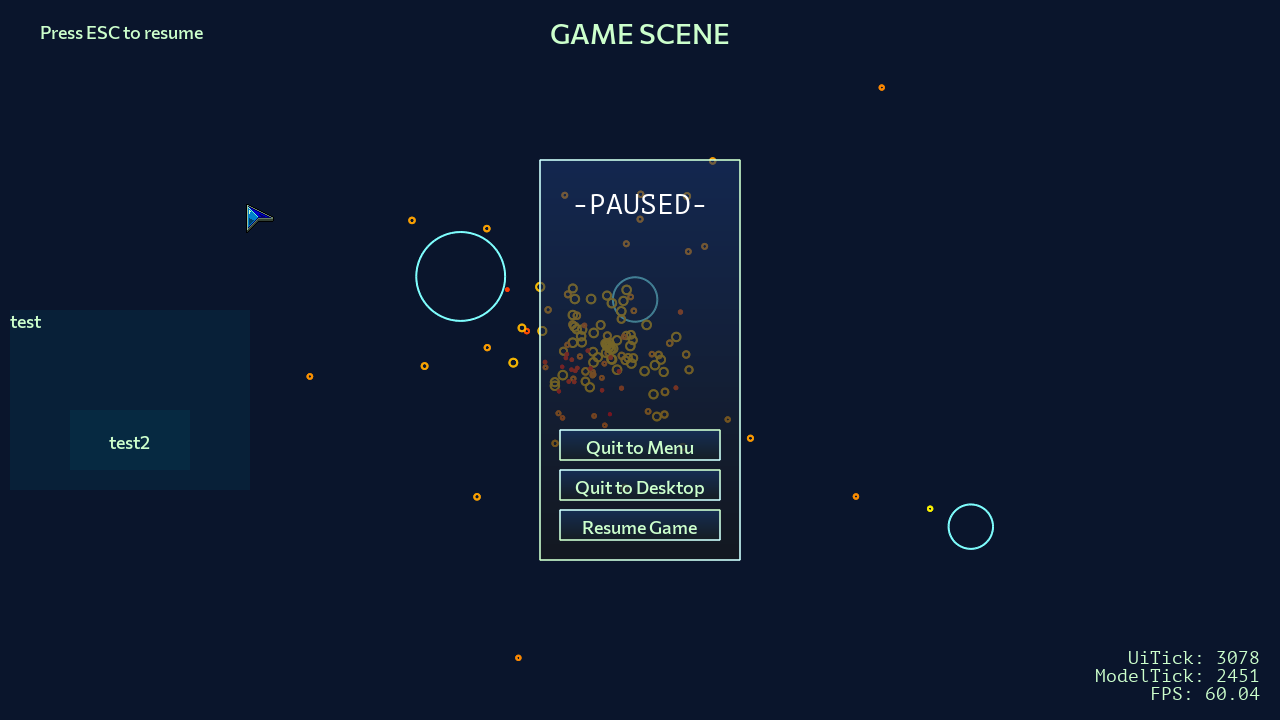
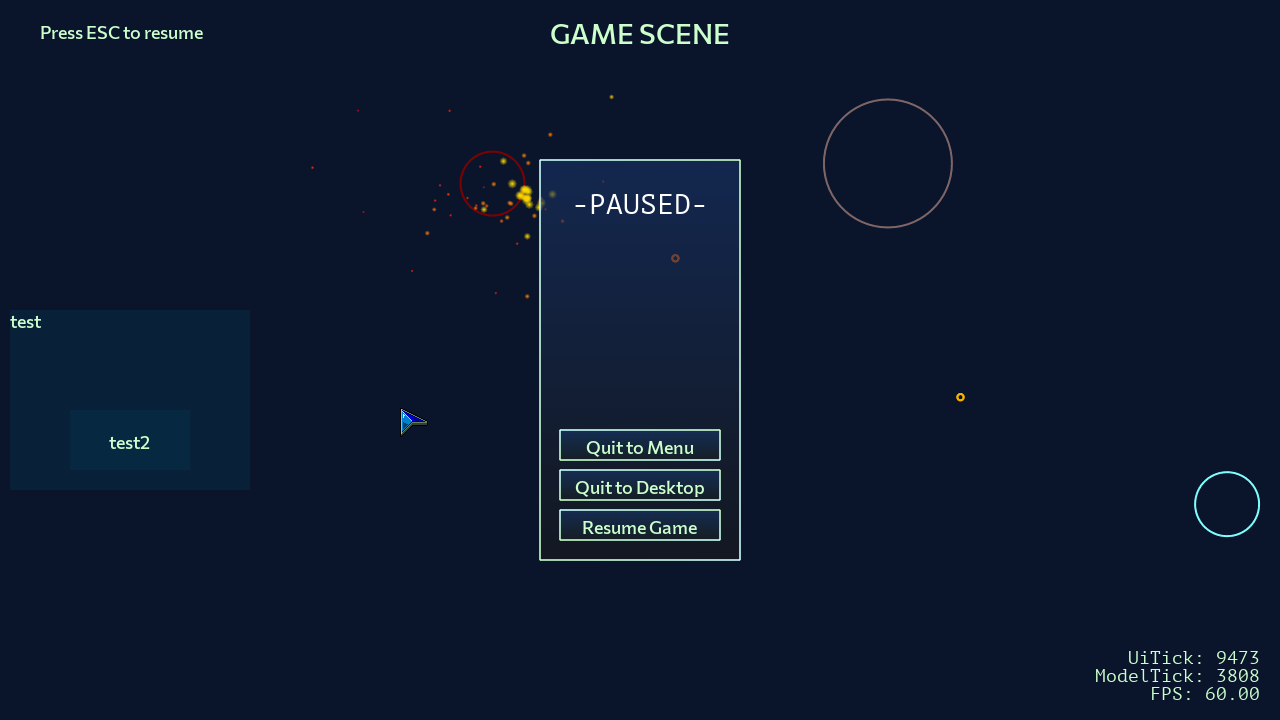
Change particle sprite

diff --git a/src/ui/SpriteLoad.cpp b/src/ui/SpriteLoad.cpp
@@ -18,8 +18,6 @@ bool SpriteManager::loadData() {
     if (!loadTexturedSprite(SPRITE_ID_TEX3, "data/textures/bit.tga")) return false;
     if (!loadTexturedSprite(SPRITE_ID_TEX4, "data/textures/awesomeface.png")) return false;
 
-    if (!loadTexturedSprite(SPRITE_ID_CURSOR, "data/textures/cursor.tga")) return false;
-
     {   GLcolorRGBA colors[] = { {1,1,1,.2f}, {1,1,1,.2f}, {1,1,1,.2f}, {1,1,1,.2f} };
         if (!loadGeometricSprite(SPRITE_ID_WIDGET_BG_DEBUG,
                                  quadDrawfunc,
@@ -39,6 +37,27 @@ bool SpriteManager::loadData() {
                 glDrawArrays(GL_LINE_LOOP     , 4, 4);
             },
             8, vertices, colors)) return false;
+    }
+
+    if (!loadTexturedSprite(SPRITE_ID_CURSOR, "data/textures/cursor.tga")) return false;
+
+    {   const int NUM_OF_VERTICES = 8;
+        GLvertex2 vertices[NUM_OF_VERTICES+2]; // +1 vertex for the center, +1 vertex to repeat a vertex to close the circle
+        GLcolorRGBA colors[NUM_OF_VERTICES+2];
+
+        vertices[0] = {0,0};
+        colors[0] = {1,1,1,1};
+
+        for (int i = 1; i <= NUM_OF_VERTICES+1; ++i) {
+            float angle = ((float) i / NUM_OF_VERTICES) * TWO_PI;
+            vertices[i].x = cos(angle);
+            vertices[i].y = sin(angle);
+            colors[i] = {1,1,1,0};
+        }
+
+        if (!loadGeometricSprite(SPRITE_ID_PARTICLE,
+                                 [](){ glDrawArrays(GL_TRIANGLE_FAN, 0, NUM_OF_VERTICES+2); },
+                                 NUM_OF_VERTICES+2, vertices, colors)) return false;
     }
 
     {   const int NUM_OF_VERTICES = 60;

diff --git a/src/Scene/Model/Particle.cpp b/src/Scene/Model/Particle.cpp
@@ -41,6 +41,6 @@ void Particle::draw(UiManager &uiManager) {
     float a = getLifeFraction();
     uiManager.setColorMask({1, a, 0});
     uiManager.setObjectScale(getRadius());
-    uiManager.drawSprite(x, y, SPRITE_ID_CIRCLE);
+    uiManager.drawSprite(x, y, SPRITE_ID_PARTICLE);
 }
 

diff --git a/src/ui/SpriteId.hpp b/src/ui/SpriteId.hpp
@@ -8,10 +8,11 @@ enum SpriteId {
     SPRITE_ID_TEX3,
     SPRITE_ID_TEX4,
 
-    SPRITE_ID_CURSOR,
-
     SPRITE_ID_WIDGET_BG_DEBUG,
     SPRITE_ID_WIDGET_BG,
+
+    SPRITE_ID_CURSOR,
+    SPRITE_ID_PARTICLE,
     SPRITE_ID_CIRCLE,
 
     SPRITE_ID_COUNT
